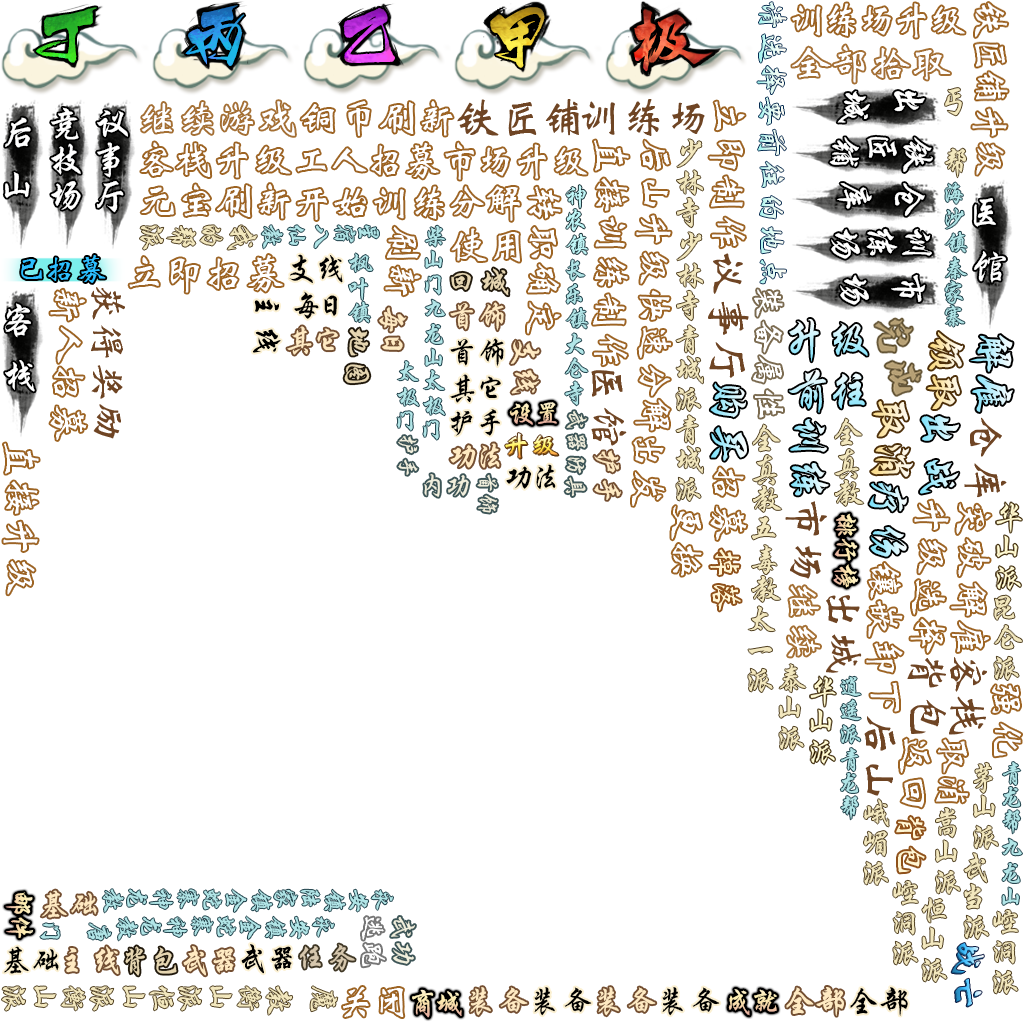
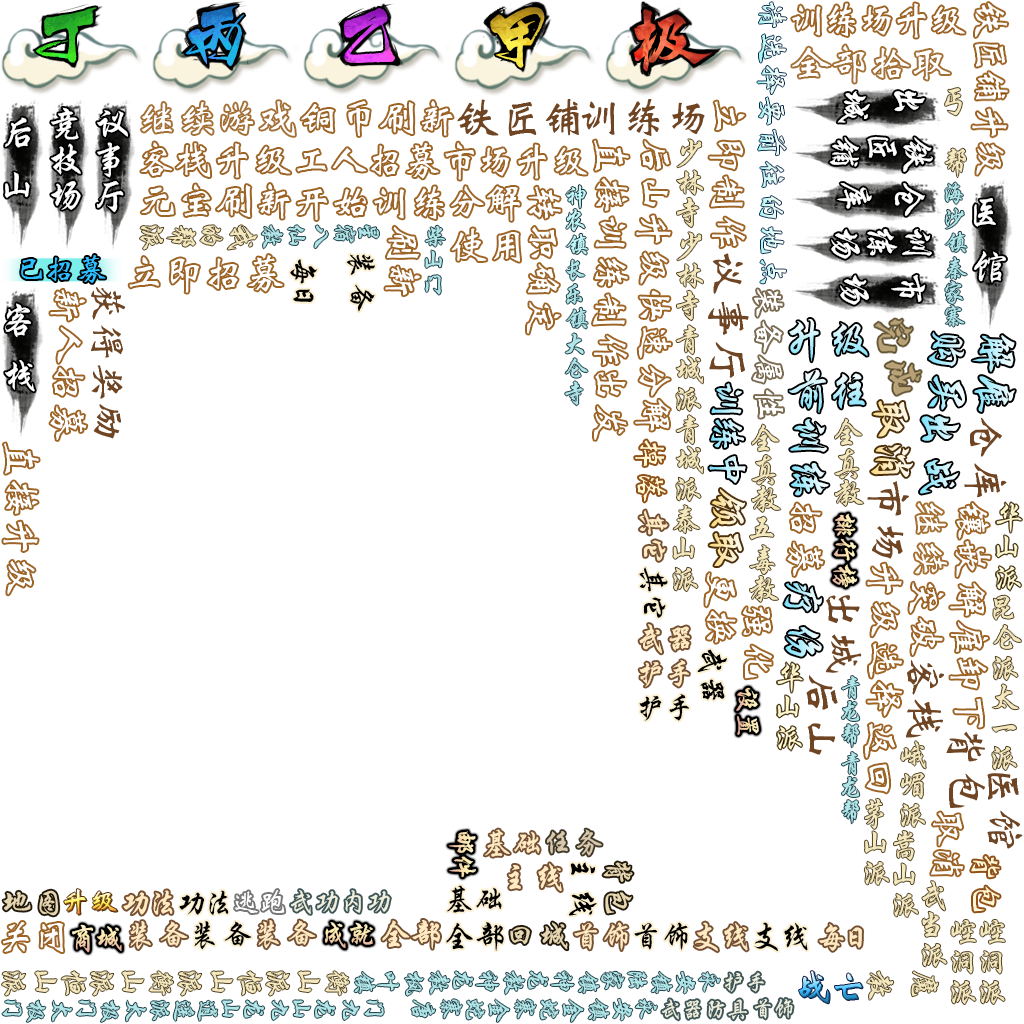
加入训练中文字

Changed region(s): [[0.0, 0.25, 1.0, 1.0], [0.9062, 0.3125, 1.0, 0.4062]]

diff --git a/Classes/MyHeroNode.cpp b/Classes/MyHeroNode.cpp
@@ -123,10 +123,17 @@ bool MyHeroNode::init(Hero* herodata, int showtype)
 		actbtntxt->loadTexture(ResourcePath::makeTextImgPath("cure_text", langtype), cocos2d::ui::Widget::TextureResType::PLIST);
 		silver->setVisible(true);
 	}
+	else if (m_showtype == HS_OWNED)
+	{
+		if (m_heroData->getState() == HS_TRAINING)
+		{
+			actbtntxt->loadTexture(ResourcePath::makeTextImgPath("traindoing_text", langtype), cocos2d::ui::Widget::TextureResType::PLIST);
+		}
+	}
 	else if (m_showtype == HS_TRAINING)
 	{
 		clickimg->setTouchEnabled(false);
-		updateContent();
+		changeBtnContent();
 
 	}
 	if (m_heroData->getPower().getValue() >= 100)
@@ -141,7 +148,7 @@ bool MyHeroNode::init(Hero* herodata, int showtype)
 	return true;
 }
 
-void MyHeroNode::updateContent()
+void MyHeroNode::changeBtnContent()
 {
 	if (m_heroData->getState() == HS_TRAINING)
 	{
@@ -242,7 +249,6 @@ void MyHeroNode::updateData()
 
 void MyHeroNode::onBtnClick(cocos2d::Ref *pSender, cocos2d::ui::Widget::TouchEventType type)
 {
-
 	Node* clicknode = (Node*)pSender;
 	if (clicknode->getTag() == 2)
 		CommonFuncs::BtnAction(pSender, type);
@@ -407,14 +413,18 @@ void MyHeroNode::setStateTag(int state)
 	}
 	else
 	{
+		btntextstr = "firebtn_text";
+
 		if (state == HS_TAKEON)
 		{
 			statetag->setVisible(true);
 			statetag->loadTexture(ResourcePath::makePath("ui/herotag_0.png"), cocos2d::ui::Widget::TextureResType::PLIST);
 		}
 		else
+		{
 			statetag->setVisible(false);
-		btntextstr = "firebtn_text";
+		}
+
 	}
 	if (statetag->isVisible())
 	{

diff --git a/Classes/WinRewardLayer.cpp b/Classes/WinRewardLayer.cpp
@@ -422,7 +422,8 @@ void WinRewardLayer::longTouchAction(int tag)
 			MovingLabel::show(ResourceLang::map_lang["carryovertext"]);
 			return;
 		}
-		if (tag % 10000 < vec_dropdownres.size())
+		int ressize = vec_dropdownres.size();
+		if (tag % 10000 < ressize)
 		{
 			ResBase* res = vec_dropdownres[tag % 10000];//clicknode->getUserData();
 			reduceDropRes(res, 1, tag % 10000);
@@ -434,7 +435,8 @@ void WinRewardLayer::longTouchAction(int tag)
 	}
 	else if (tag / 10000 == 1)
 	{
-		if (tag % 10000 < vec_mypackagres.size())
+		int pacsize = vec_mypackagres.size();
+		if (tag % 10000 < pacsize)
 		{
 			ResBase* res = vec_mypackagres[tag % 10000];//(ResBase*)clicknode->getUserData();
 			addDropRes(res);

diff --git a/Classes/TrainHintLayer.cpp b/Classes/TrainHintLayer.cpp
@@ -111,7 +111,7 @@ void TrainHintLayer::onBtnClick(cocos2d::Ref *pSender, cocos2d::ui::Widget::Touc
 				m_herodata->setTrainHour(0);
 				m_herodata->setTrainTime(0);
 				m_herodata->setState(HS_OWNED);
-				myheroNode->updateContent();
+				myheroNode->changeBtnContent();
 			}
 			this->removeFromParentAndCleanup(true);
 		default:

diff --git a/Classes/TrainSelectLayer.cpp b/Classes/TrainSelectLayer.cpp
@@ -228,7 +228,7 @@ void TrainSelectLayer::action()
 	m_data->setState(HS_TRAINING);
 	m_data->setTrainHour(timeCount[lastSelectIndex]);
 	m_data->setTrainTime(GlobalInstance::servertime);
-	myheroNode->updateContent();
+	myheroNode->changeBtnContent();
 }
 
 void TrainSelectLayer::updateUI()

diff --git a/Classes/MyHeroNode.h b/Classes/MyHeroNode.h
@@ -16,7 +16,7 @@ public:
 
 	static MyHeroNode* create(Hero* herodata, int showtype = HS_OWNED);
 	void updateData();
-	void updateContent();
+	void changeBtnContent();
 private:
 	cocos2d::ui::ImageView* headbox;
 	cocos2d::ui::ImageView* headimg;
